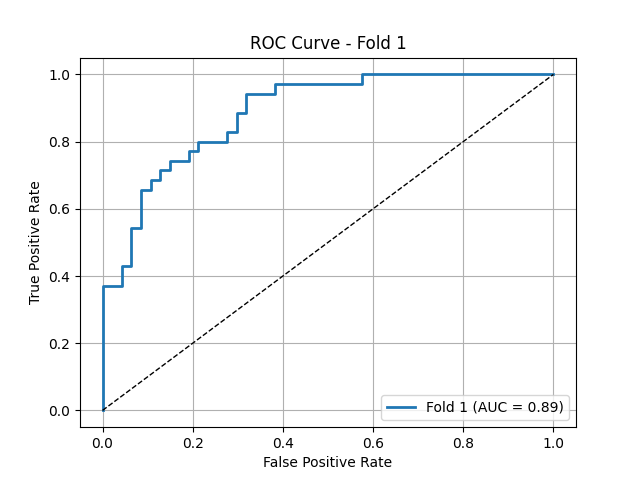
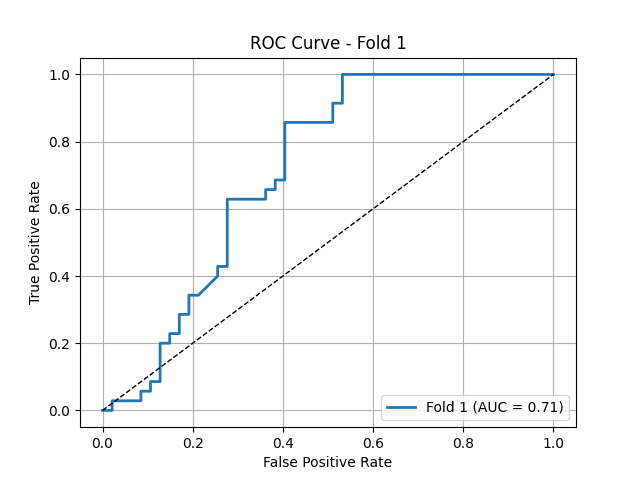
chechiing scaling effect with 0_1 value

diff --git a/dataset_washu2.py b/dataset_washu2.py
@@ -80,7 +80,7 @@ train_transform = A.Compose([
     A.VerticalFlip(p=0.5),
     A.RandomRotate90(p=0.5),
 
-	A.ShiftScaleRotate(shift_limit=0.05, scale_limit=0.05, rotate_limit=10, border_mode=0, value=0, p=0.5), 
+	A.ShiftScaleRotate(shift_limit=0.05, scale_limit=0.1, rotate_limit=10, border_mode=0, value=0, p=0.5), 
     A.ElasticTransform(alpha = 0.1, sigma = 50, p=0.8),
     A.GridDistortion(distort_limit=(-0.1,0.1), p=0.5),
 	#A.GaussNoise(var_limit=(0.2, 0.44), p=1),
@@ -238,7 +238,7 @@ class Classificaiton_Dataset(Dataset):
 	
 if __name__ == '__main__':
 	#Classificaiton_Dataset(phase = 'train', img_transform= transform_img)
-	train_dataset = Classificaiton_Dataset(phase = 'test', k_fold=10, fold= 2)
+	train_dataset = Classificaiton_Dataset(phase = 'train', k_fold=10, fold= 2)
 	print("train dataset size: ", len(train_dataset))
 	#print("test dataset size: ", len(train_dataset))
 	#print("data sample: ", train_dataset.data) 
